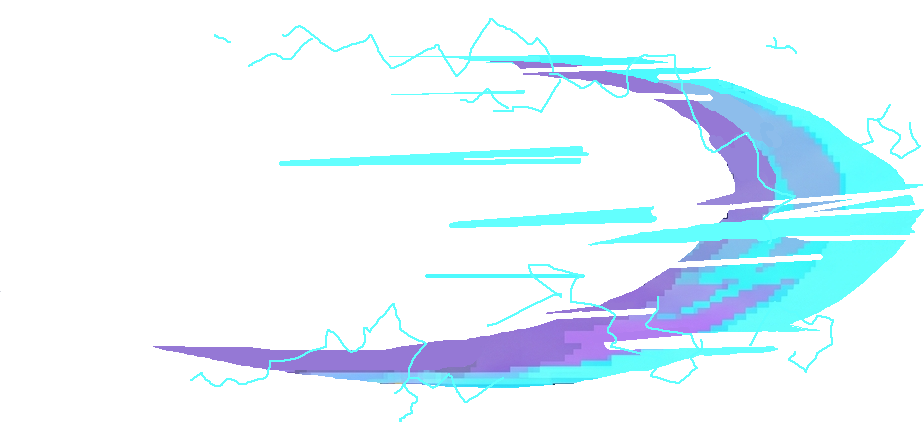
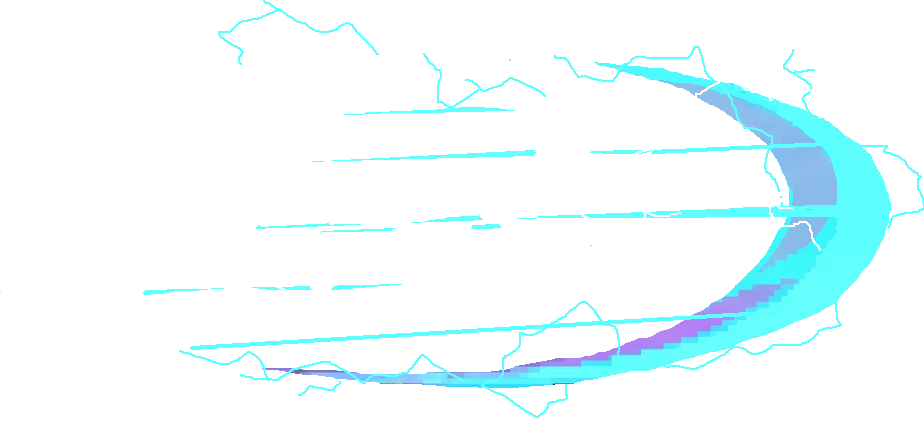
v0.6.6.1 - Ranged update

diff --git a/index.html b/index.html
@@ -100,33 +100,42 @@
     </div>
     <div id="changelog-container" class="removal-candidate" data-removal-candidate="true">
         <div class="changelog-header">
-            <h2>🚀 Neon Runner v0.6.5.1 - Stable</h2>
+            <h2>🚀 Neon Runner v0.6.6.1 - Stable</h2>
             <div class="changelog-badges">
                 <span class="badge-stable">STABLE RELEASE</span>
-                <span class="badge-removal">PENDENTE DE REMOÇÃO</span>
             </div>
         </div>
         
         <div class="changelog-intro">
-            <strong>⚡ Grande Atualização: Sistema Overcharge</strong><br>
-            A principal novidade desta versão é a chegada do Overcharge, um modo especial de combate e movimentação que recompensa jogadores agressivos e habilidosos.
+            <strong>⚡ Atualização de Cenários e Combate (v0.6.6.1)</strong><br>
+            A principal novidade desta versão é a chegada do sistema completo de Parallax, ataques à distância e limites aprimorados de câmera, além de correções críticas de renderização contínua.
         </div>
 
         <div class="changelog-section">
-            <h3>🔹 Novo Sistema Overcharge</h3>
+            <h3>🔹 Novos Sistemas Adicionados</h3>
+            <ul>
+                <li><strong>Parallax Completo:</strong> Adicionadas camadas de Foreground e Background com sistema de rolagem infinita contínua (sem snapping).</li>
+                <li><strong>Ataque à Distância:</strong> Introduzida a mecânica de Ranged Attack (tiro), expandindo o leque estratégico de combate.</li>
+                <li><strong>Limites de Câmera:</strong> A câmera agora possui limite vertical (clamp) em relação ao nível do chão, impedindo que o jogador enxergue o "vazio" abaixo das artes de cenário caso caia.</li>
+            </ul>
+        </div>
+
+        <div class="changelog-section">
+            <h3>🛠 Melhorias de Código e Correções (v0.6.6.1)</h3>
+            <ul>
+                <li><strong>Encapsulamento do Parallax:</strong> O estado e os cálculos de rolagem foram completamente encapsulados dentro de <code>parallax.js</code>.</li>
+                <li><strong>Correção do Bug de Snapping:</strong> O cenário agora acumula o valor de scroll por frame, eliminando engasgos severos que ocorriam quando a velocidade do jogo (gameSpeed) ou o Overcharge aumentavam.</li>
+            </ul>
+        </div>
+
+        <div class="changelog-section">
+            <h3>🔹 Histórico Recente (v0.6.5.1 - Overcharge)</h3>
             <ul>
                 <li><strong>Barra de Energia:</strong> Adicionado o sistema de gerenciamento da barra de Overcharge.</li>
                 <li><strong>Mecânica de Carga:</strong> A barra é alimentada e carregada progressivamente ao eliminar inimigos.</li>
-                <li><strong>Cap Máximo Rígido:</strong> Limite máximo da barra fixado em 15 pontos.</li>
-                <li><strong>Aumento de Ganho:</strong> Energia obtida por abate aumentada de 1.5 para 1.8 pontos.</li>
-                <li><strong>Golpes Ambientais:</strong> Paredes destruídas por impactos de inimigos agora concedem 0.5 ponto de Overcharge.</li>
-                <li><strong>Penalidade por Dano:</strong> A barra perde 1 ponto imediatamente sempre que você sofrer dano.</li>
                 <li><strong>Gerenciamento de Cooldown:</strong> Adicionado o estado de resfriamento para controle pós-uso.</li>
-                <li><strong>Drenagem Gradual:</strong> A barra agora drena e esvazia de forma contínua e visual enquanto o Overcharge estiver ativo.</li>
-                <li><strong>Efeito de Cooldown:</strong> Adicionada uma barra com pulso azul neon constante durante o tempo de resfriamento.</li>
-                <li><strong>Sinalização de Recarga:</strong> Adicionado efeito visual intermitente de piscar na barra durante o resfriamento.</li>
             </ul>
-        </div>
+        </div>re
 
         <div class="changelog-section">
             <h3>🔥 Ativação do Overcharge</h3>
@@ -281,7 +290,7 @@
 
         <div class="changelog-footer">
             <h3>📋 Resumo da Versão Stable</h3>
-            <p>A versão 0.6.5.1 Stable introduz oficialmente o sistema Overcharge, adicionando um novo ciclo completo de risco e recompensa baseado em agressividade, gerenciamento de recursos e tomada de decisão em frações de segundo. O jogador pode optar por manter a barra cheia para aproveitar bônus passivos permanentes ou consumi-la para entrar em um estado temporário de poder extremo, acompanhado de novos efeitos visuais, trilhas dinâmicas em crossfade, melhorias drásticas de interface e dezenas de correções de estabilidade de código.</p>
+            <p>A versão v0.6.6.1 adiciona profundidade imersiva ao jogo através de um sistema de Parallax dinâmico perfeitamente suave, além de refinar a jogabilidade tática com o Ranged Attack e garantir uma apresentação visual impecável com as novas travas de câmera no chão.</p>
         </div>
     </div>
 

diff --git a/parallax.js b/parallax.js
@@ -10,27 +10,42 @@ export const parallaxMid = createTrackedImage('assets/bg_parallax_2.webp');
 export const parallaxFront = createTrackedImage('assets/bg_parallax_3.webp');
 export const parallaxForeground = createTrackedImage('assets/fg_parallax_1.webp');
 
+let parallaxScrollAccumulator = 0;
+
+export function updateParallax(speed) {
+    parallaxScrollAccumulator += speed;
+}
+
+export function resetParallax() {
+    parallaxScrollAccumulator = 0;
+}
+
 function _drawLayer(ctx, canvas, img, scrollX, alpha = 1) {
     if (!img || img.naturalWidth === 0) return;
 
     const drawW = canvas.width * PARALLAX_SCALE;
     const drawH = canvas.height * PARALLAX_SCALE;
-    const offsetX = -((scrollX % drawW) + drawW) % drawW - ((drawW - canvas.width) / 2);
+    
+    let shiftX = scrollX % drawW;
+    if (shiftX < 0) shiftX += drawW;
+    
+    const startX = -shiftX;
     const offsetY = -((drawH - canvas.height) / 2);
 
     ctx.save();
     ctx.globalAlpha = alpha;
-    ctx.drawImage(img, offsetX, offsetY, drawW, drawH);
-    ctx.drawImage(img, offsetX + drawW, offsetY, drawW, drawH);
+    ctx.drawImage(img, startX, offsetY, drawW, drawH);
+    ctx.drawImage(img, startX + drawW, offsetY, drawW, drawH);
+    ctx.drawImage(img, startX + drawW * 2, offsetY, drawW, drawH);
     ctx.restore();
 }
 
-export function drawParallaxBackground(ctx, canvas, scrollValue = 0) {
-    _drawLayer(ctx, canvas, parallaxBack, scrollValue * 0.12);
-    _drawLayer(ctx, canvas, parallaxMid, scrollValue * 0.28);
-    _drawLayer(ctx, canvas, parallaxFront, scrollValue * 0.46);
+export function drawParallaxBackground(ctx, canvas) {
+    _drawLayer(ctx, canvas, parallaxBack, parallaxScrollAccumulator * 0.12);
+    _drawLayer(ctx, canvas, parallaxMid, parallaxScrollAccumulator * 0.28);
+    _drawLayer(ctx, canvas, parallaxFront, parallaxScrollAccumulator * 0.46);
 }
 
-export function drawParallaxForeground(ctx, canvas, scrollValue = 0) {
-    _drawLayer(ctx, canvas, parallaxForeground, scrollValue * 0.68, 0.95);
+export function drawParallaxForeground(ctx, canvas) {
+    _drawLayer(ctx, canvas, parallaxForeground, parallaxScrollAccumulator * 0.68, 0.95);
 }

diff --git a/renderer.js b/renderer.js
@@ -57,7 +57,6 @@ export function draw({
     ctx.save();
 
     let zoomed = false;
-    const parallaxScroll = globalTimer * gameSpeed;
     const playerCenterY = player.y + player.height / 2;
     const verticalDistance = canvas.height * 0.42 - playerCenterY;
     const cameraDriftY = Math.max(
@@ -110,7 +109,7 @@ export function draw({
 
     ctx.translate(0, cameraDriftY);
 
-    drawParallaxBackground(ctx, canvas, parallaxScroll);
+    drawParallaxBackground(ctx, canvas);
     _drawPlatforms(ctx, platforms);
     _drawProjectiles(ctx, projectiles, globalTimer);
     _drawRangedProjectiles(ctx, rangedProjectiles);
@@ -121,7 +120,7 @@ export function draw({
     }
     _drawPlayer(ctx, player, isGameOver, isDeathSequence, deathSequenceEndTime, globalTimer);
     _drawComboMultiplier(ctx, player, isFirstStart, isGameOver);
-    drawParallaxForeground(ctx, canvas, parallaxScroll);
+    drawParallaxForeground(ctx, canvas);
 
     if (zoomed) ctx.restore();
     ctx.restore();

diff --git a/gamemanager.js b/gamemanager.js
@@ -29,6 +29,7 @@ import {
     OVERCHARGE_SPEED_MULTIPLIER,
     OVERCHARGE_READY_SLOWMO_DURATION,
 } from './overcharge.js';
+import { updateParallax, resetParallax } from './parallax.js';
 import {
     startRocketBootsSFX, stopRocketBootsSFX,
     playAttackSFX, playExplosionSFX, playCarrierPickupSFX,
@@ -99,6 +100,7 @@ export function init() {
     lastTime             = performance.now();
 
     resetPlayer();
+    resetParallax();
     stopRocketBootsSFX();
 
     platforms        = [
@@ -291,6 +293,10 @@ function loop(currentTime) {
     const effectiveGameSpeed = player.overchargeState === 'active'
         ? gameSpeed * OVERCHARGE_SPEED_MULTIPLIER
         : gameSpeed;
+
+    if (!isPaused && !isFirstStart) {
+        updateParallax(effectiveGameSpeed);
+    }
 
     // Render
     draw({

diff --git a/CHANGELOG.md b/CHANGELOG.md
@@ -1,0 +1,16 @@
+# Changelog
+
+All notable changes to this project will be documented in this file.
+
+## [v0.6.6.1] - 2026-06-19
+### Added
+- **Parallax System:** Implemented full parallax scrolling mechanics for both background layers and the new foreground layer.
+- **Ranged Attack Mechanic:** Introduced the new ranged attack combat ability to players.
+- **Camera Constraints:** Limited the camera to track down to the new ground boundary, preventing the viewport from following the player into the empty void below the background art and platforms.
+
+### Changed
+- **Parallax System Overhaul:** Refactored the new parallax drawing logic in `parallax.js` to use a 3-instance smooth scrolling sequence instead of a complex snapping approach.
+- **State Encapsulation:** Encapsulated the `parallaxScrollAccumulator` state entirely within `parallax.js`, separating it from `gamemanager.js` time calculations.
+
+### Fixed
+- **Parallax Snapping Bug:** Fixed an issue where the parallax backgrounds would snap or jump erratically during active gameplay by tracking continuous scroll distance instead of total game speed calculations.

diff --git a/README.md b/README.md
@@ -2,7 +2,7 @@
 
 ### 🎮 Jogar Agora
 
-👉 **Versão Atual (v0.4.2):**
+👉 **Versão Atual (v0.6.6.1):**
 https://licandarker.github.io/Web-Neon-Runner/
 
 ---
